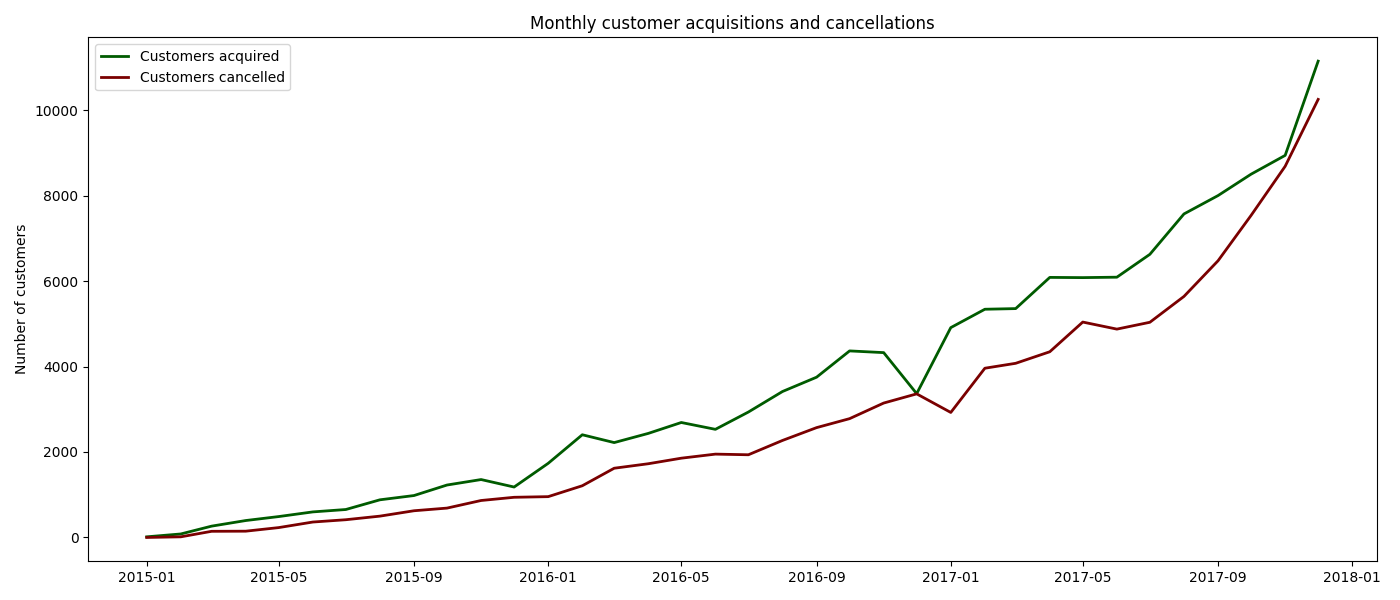
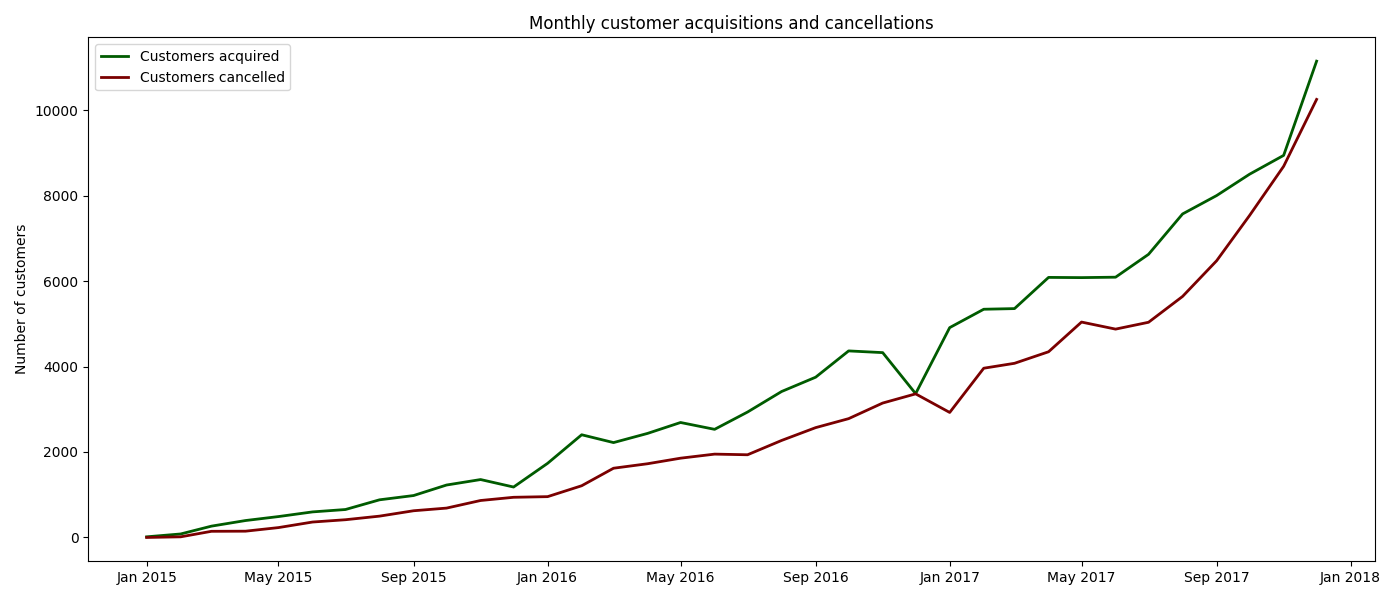
Reformatted X axis for churn and acquisitions charts

diff --git a/analysis/analysis.py b/analysis/analysis.py
@@ -3,6 +3,7 @@ import pandas as pd
 import matplotlib.pyplot as plt
 import seaborn as sns
 from matplotlib.ticker import PercentFormatter
+import matplotlib.dates as mdates
 con = duckdb.connect("../semrushpayments/semrushpayments.duckdb")
 
 ### 1. Importing and exploring models ###
@@ -80,6 +81,7 @@ data_churn['value_retention']=data_churn['retained_revenue']/data_churn['startin
 data_churn['volume_retention']=data_churn['retained_customers']/data_churn['starting_customers']
 data_churn['value_churn'] = 1 - data_churn['value_retention']
 data_churn['volume_churn'] = 1 - data_churn['volume_retention']
+data_churn['churn_month']=pd.to_datetime(data_churn['churn_month'])
 #Plotting
 fig, ax = plt.subplots(figsize=[14,6], ncols=2, nrows=1, sharey=True)
 sns.lineplot(data=data_churn, x='churn_month', y='value_churn', ax=ax[0], color='#ff622d', linewidth=2)
@@ -88,7 +90,9 @@ sns.lineplot(data=data_churn, x='churn_month', y='volume_churn', ax=ax[1], color
 for a in ax:
     a.set_xlabel('')
     a.yaxis.set_major_formatter(PercentFormatter(1, decimals=0))
+    a.tick_params(axis='x', labelrotation=30)
     a.yaxis.grid(True)
+    a.xaxis.set_major_formatter(mdates.DateFormatter('%b %Y'))
 ax[0].set_ylabel('Churn rate')
 ax[0].set_title('Value Churn')
 ax[1].set_title('Volume Churn')
@@ -100,6 +104,7 @@ plt.savefig('./images/churn.png')
 
 ## Acquisitions ##
 data_acquired = data_acquired.groupby(['metric_month'])[['customers_acquired','cancelled_customers','customer_base']].sum().reset_index()
+data_acquired['metric_month']=pd.to_datetime(data_acquired['metric_month'])
 #Plotting
 fig, ax = plt.subplots(figsize=[14,6])
 sns.lineplot(data=data_acquired, x='metric_month', y='customers_acquired', ax=ax, color="#005b00", linewidth=2, label='Customers acquired')
@@ -108,6 +113,7 @@ sns.lineplot(data=data_acquired, x='metric_month', y='cancelled_customers', ax=a
 ax.set_xlabel('')
 ax.set_ylabel('Number of customers')
 ax.set_title('Monthly customer acquisitions and cancellations')
+ax.xaxis.set_major_formatter(mdates.DateFormatter('%b %Y'))
 
 plt.tight_layout()
 plt.savefig('./images/acquisitions.png')
